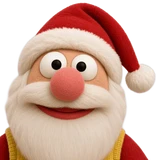
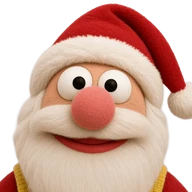
Premium brand mark with even padding in the site bar

diff --git a/src/components/BrandMark.tsx b/src/components/BrandMark.tsx
@@ -1,10 +1,15 @@
 import Image from "next/image";
 
-/** The app's mark: Santa's head from the show, in a round badge next to the name. */
+/** The app's mark: Santa's head from the show on a deep pine disc inside a thin gilded ring. */
 export function BrandMark({ className = "h-8 w-8" }: { className?: string }) {
   return (
-    <span className={`relative block shrink-0 overflow-hidden rounded-full bg-cream ring-2 ring-gold/70 ${className}`} aria-hidden>
-      <Image src="/brand/santa-head.webp" alt="" fill unoptimized sizes="40px" className="scale-110 object-cover object-top" />
+    <span
+      className={`relative block shrink-0 rounded-full bg-[linear-gradient(145deg,#ffe7a3_0%,#d9a531_45%,#8a5a12_100%)] p-[1.5px] shadow-[0_4px_12px_-4px_rgb(0_0_0/0.6)] ${className}`}
+      aria-hidden
+    >
+      <span className="relative block h-full w-full overflow-hidden rounded-full bg-[radial-gradient(circle_at_50%_30%,#3f8a5f_0%,#1f5a3c_55%,#123826_100%)] shadow-[inset_0_1px_3px_rgb(0_0_0/0.25)]">
+        <Image src="/brand/santa-head.webp" alt="" fill unoptimized sizes="48px" className="translate-y-[4%] object-cover" />
+      </span>
     </span>
   );
 }

diff --git a/src/components/SiteHeader.tsx b/src/components/SiteHeader.tsx
@@ -15,8 +15,8 @@ export function SiteHeader({ fixed = false }: { fixed?: boolean }) {
 
   return (
     <header className={`${fixed ? "fixed inset-x-0 top-0 z-50" : "relative z-30"} px-3 pt-3 text-snow md:px-5 md:pt-4`}>
-      <div className="mx-auto flex max-w-6xl items-center justify-between gap-2 rounded-full bg-ink/55 py-1.5 pl-4 pr-1.5 shadow-[0_12px_34px_-14px_rgb(0_0_0/0.65)] ring-1 ring-snow/12 backdrop-blur-xl md:pl-5">
-        <Link href="/" className="-ml-2 flex h-9 items-center gap-2.5 whitespace-nowrap font-display text-lg font-bold md:-ml-3">
+      <div className="mx-auto flex max-w-6xl items-center justify-between gap-2 rounded-full bg-ink/55 p-1.5 shadow-[0_12px_34px_-14px_rgb(0_0_0/0.65)] ring-1 ring-snow/12 backdrop-blur-xl">
+        <Link href="/" className="flex h-9 items-center gap-3 whitespace-nowrap rounded-full pr-2 font-display text-lg font-bold tracking-[0.01em] transition-opacity hover:opacity-90">
           <BrandMark className="h-9 w-9" />
           <span className="max-sm:sr-only">{brand.name}</span>
         </Link>
